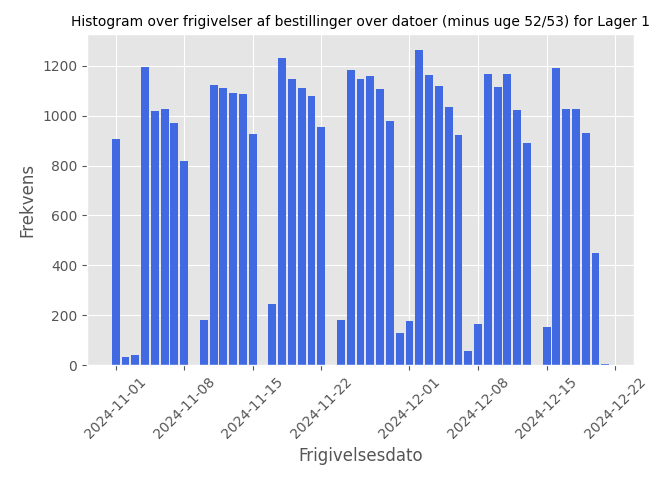
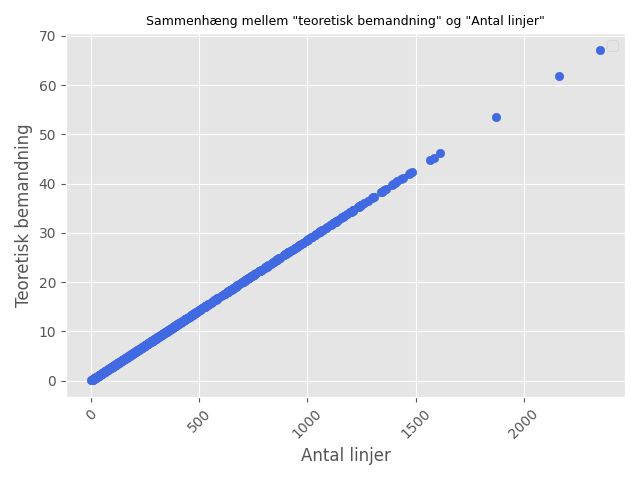
Analysis done

diff --git a/src/main.py b/src/main.py
@@ -7,18 +7,11 @@ import numpy as np
 import pandas as pd
 
 # Local files
-from src.plots import plot_histogram, plot_lineplot
-
+from plots import plot_histogram, plot_lineplot, plot_scatter
 
 DATA_PATH: Path = Path("data\\datasample.csv")
-COLOR_SCHEME: list[str] = [
-    "#4169E1",
-    "#bb342f",
-    "#218380",
-    "#ead94c",
-]
 
-  
+
 def convert_to_float(string: str) -> float:
     """
     Convert a string to a float.
@@ -39,6 +32,7 @@ def convert_to_float(string: str) -> float:
     ------
     ValueError
         If the input string cannot be converted to a float.
+
     """
     try:
         return float(string.replace(",", "."))
@@ -51,7 +45,7 @@ def step_1() -> None:
     Load data and plot frequency of `Frigivelsesdato` as a histogram.
     """
     df = pd.read_csv(DATA_PATH, delimiter=";")
-    
+
     df["Frigivelsesdato"] =  pd.to_datetime(df["Frigivelsesdato"], format="%d-%m-%Y")
     data = df["Frigivelsesdato"].value_counts().to_dict()
     plot_histogram(data, "Histogram over frigivelser af bestillinger over datoer", "Frigivelsesdatoer", "Frekvens")
@@ -64,10 +58,10 @@ def step_2() -> None:
     df = pd.read_csv(DATA_PATH, delimiter=";")
     df = df[df["Week"] <= 51]
     df["Frigivelsesdato"] =  pd.to_datetime(df["Frigivelsesdato"], format="%d-%m-%Y")
-    
+
     data = df["Frigivelsesdato"].value_counts().to_dict()
     plot_histogram(data, "Histogram over frigivelser af bestillinger over datoer (minus uge 52/53)", "Frigivelsesdatoer", "Frekvens")
-    
+
 
 def step_3() -> None:
     """
@@ -75,7 +69,7 @@ def step_3() -> None:
     """
     df = pd.read_csv(DATA_PATH, delimiter=";")
     df = df[df["Week"] <= 51]
-    
+
     min_val = df["Antal_linjer"].min()
     max_val = df["Antal_linjer"].max()
     mean_val = df["Antal_linjer"].mean()
@@ -98,7 +92,7 @@ def step_4():
 
     for key, value in data.items():
         data[key] = convert_to_float(value)
-    plot_lineplot_(data, "Sammenhæng mellem \"teoretisk bemandning\" og \"Antal linjer\"", "Teoretisk bemandning", "Antal linjer",)
+    plot_scatter(data, "Sammenhæng mellem \"teoretisk bemandning\" og \"Antal linjer\"", "Antal linjer", "Teoretisk bemandning")
 
 
 
@@ -116,6 +110,7 @@ def step_5(column: str, title: str) -> None:
         The column name in the dataset to analyze.
     title : str
         The title for the histogram.
+
     """
     df = pd.read_csv(DATA_PATH, delimiter=";")
     df = df[df["Week"] <= 51]
@@ -163,10 +158,10 @@ def create_data_for_mean_min_max(a) -> dict[str, list[int | float]]:
 
 
 def step_6() -> None:
-    
+
     df = pd.read_csv(DATA_PATH, delimiter=";")
     df = df[df["Week"] <= 51]
-    
+
     elements = find_values(df, "Weekday")
     a = func(elements)
     data = create_data_for_mean_min_max(a)
@@ -176,7 +171,7 @@ def step_6() -> None:
 def step_7() -> None:
     df = pd.read_csv(DATA_PATH, delimiter=";")
     df = df[(df["Week"] <= 51) & (df["Weekday"] <= 5)]
-    
+
     elements = find_values(df, "Hour")
     a = func(elements)
     data = create_data_for_mean_min_max(a)
@@ -200,10 +195,10 @@ def find_packages_left_and_wasted_time(mean, schedule):
 
 
 def create_schedule(work_schedules: list[dict[str, int]]) -> list[int]:
-    schedule = [0 for _ in range(0, 24)]
-    for i in range(0, 23):
+    schedule = [0 for _ in range(24)]
+    for i in range(23):
         for work_schedule in work_schedules:
-            if work_schedule["start"] <= i and i <= work_schedule["end"]:
+            if work_schedule["start"] <= i <= work_schedule["end"]:
                 schedule[i] += 35 * work_schedule["amount"]                     # 35 is the number of lines each worker can do in a hour
     return schedule
 
@@ -211,16 +206,16 @@ def create_schedule(work_schedules: list[dict[str, int]]) -> list[int]:
 def step_8(work_schedules: list[dict[str, int]]) -> None:
     df = pd.read_csv(DATA_PATH, delimiter=";")
     df = df[(df["Week"] <= 51) & (df["Weekday"] <= 5)]
-        
+
     elements = find_values(df, "Hour")
     a = func(elements)
-    # Because the median size of a package 
+    # Because the median size of a package
     scalar = 2
     a = {key: [value * scalar for value in values] for key, values in a.items()}
-    
+
     mean = create_data_for_mean_min_max(a)["mean"]
     # Extent the mean to be 24 hours
-    mean.extend([0 for _ in range(0, 24 - len(mean))])
+    mean.extend([0 for _ in range(24 - len(mean))])
 
     schedule = create_schedule(work_schedules)
     packages_left, wasted_time = find_packages_left_and_wasted_time(mean, schedule)
@@ -229,48 +224,48 @@ def step_8(work_schedules: list[dict[str, int]]) -> None:
         "Mean of confirmed order": np.cumsum(mean).tolist(),
         "Schedule": np.cumsum(schedule).tolist(),
         "Wasted time": np.cumsum(wasted_time).tolist(),
-        "Packages left": packages_left
+        "Packages left": packages_left,
     }
     plot_lineplot(data, "Graf over forventet pakker, pakket pakker af medarbejde, spildtid og pakker tilbage", "Tid", "Antal linjer")
 
 
 def main():
     # Brugt under "2.2) Hvornår bliver en bestilling lavet?"
-    #step_1()
-    #step_2()
-    
+    step_1()
+    step_2()
+
     # Brugt under "2.3) Størrelsen på en bestilling"
-    #step_3()
-    
+    step_3()
+
     # Brugt under "2.4) Hvor hurtigt pakker en medarbejder en bestilling?"
-    #step_4()
-    
+    step_4()
+
     # Brugt under "2.5) I hvilket lager og lageområde findes bestillingen i?"
-    #step_5("Frigivelsesdato", "Histogram over frigivelser af bestillinger over datoer (minus uge 52/53)")
-    #step_5("Lagerområde", "Lagerområder")
+    step_5("Frigivelsesdato", "Histogram over frigivelser af bestillinger over datoer (minus uge 52/53)")
+    step_5("Lagerområde", "Lagerområder")
 
     # Brugt under "2.6) Observeret fordeling på dagsbaseret"
-    #step_6()
-    
+    step_6()
+
     # Brugt under "2.7) Observeret fordeling på timebaseret"
-    #step_7()
-    
+    step_7()
+
     # Brugt under "2.8) Time"
     work_schedules = [
         {
             "start": 6,
             "end": 14,
-            "amount": 12
+            "amount": 12,
         },
         {
             "start": 8,
             "end": 16,
-            "amount": 20
+            "amount": 20,
         },
         {
             "start": 15,
             "end": 23,
-            "amount": 8
+            "amount": 8,
         },
     ]
     step_8(work_schedules)

diff --git a/src/plots.py b/src/plots.py
@@ -11,11 +11,19 @@ import matplotlib.pyplot as plt
 plt.style.use("ggplot")
 
 
+COLOR_SCHEME: list[str] = [
+    "#4169E1",
+    "#bb342f",
+    "#218380",
+    "#ead94c",
+]
+
+
 def plot_histogram(
         data: dict[str, list[int | float]],
-        title: str = "Histogram", 
+        title: str = "Histogram",
         xlabel: str = "X label",
-        ylabel: str = "Y label"
+        ylabel: str = "Y label",
     ) -> None:
     """
     Plots a histogram from a dictionary of keys and their corresponding values.
@@ -37,13 +45,13 @@ def plot_histogram(
     plt.xticks(rotation=45)
     plt.tight_layout()
     plt.show()
-    
-    
+
+
 def plot_lineplot(
         data: dict[str, list[int | float]],
-        title: str = "Line-plot", 
+        title: str = "Line-plot",
         xlabel: str = "X label",
-        ylabel: str = "Y label"
+        ylabel: str = "Y label",
     ) -> None:
     """
     Plots a line-plot from a dictionary of keys and their corresponding values.
@@ -58,6 +66,35 @@ def plot_lineplot(
     """
     for i, (key, value) in enumerate(data.items()):
         plt.plot(value, label=key, color=COLOR_SCHEME[i])
+    plt.title(title, fontsize=9)
+    plt.xlabel(xlabel)
+    plt.ylabel(ylabel)
+    plt.xticks(rotation=45)
+    plt.legend()
+    plt.tight_layout()
+    plt.show()
+
+
+def plot_scatter(
+        data: dict[str, list[int | float]],
+        title: str = "Line-plot",
+        xlabel: str = "X label",
+        ylabel: str = "Y label",
+    ) -> None:
+    """
+    Plots a line-plot from a dictionary of keys and their corresponding values.
+
+    Parameters
+    ----------
+        data: A dictionary object.
+        title: The title of the line-plot. Defaults to `Line-plot`.
+        xlabel: The label for the x-axis. Defaults to `X label`.
+        ylabel: The label for the y-axis. Defaults to `Y label`.
+
+    """
+    keys = list(data.keys())
+    values = list(data.values())
+    plt.scatter(keys, values, color=COLOR_SCHEME[0])
     plt.title(title, fontsize=9)
     plt.xlabel(xlabel)
     plt.ylabel(ylabel)

diff --git a/README.md b/README.md
@@ -1,4 +1,6 @@
-# 
+# Analysis of staffing in a warehouse
+Given only a `.csv`-file, how would I handle the analysis about when and where to staff people in a given warehouse. 
+
 
 ## Problemstilling
 
@@ -126,18 +128,6 @@ Hertil vil en af løsningerne være følgende vagtplan:
 Figuren viser, at alle bestillinger for den pågældende dag bliver pakket, men at der opstår spildtid for medarbejderne til sidst af dagen.
 
 ![fig_10](./figures/fig_10.png)
-
-
-
-
-Vi forudsætter, at medarbejderne kan organiseres i følgende vagthold:
-
-
-
-###
-
-
-
 
 
 ## Andre vinkler
